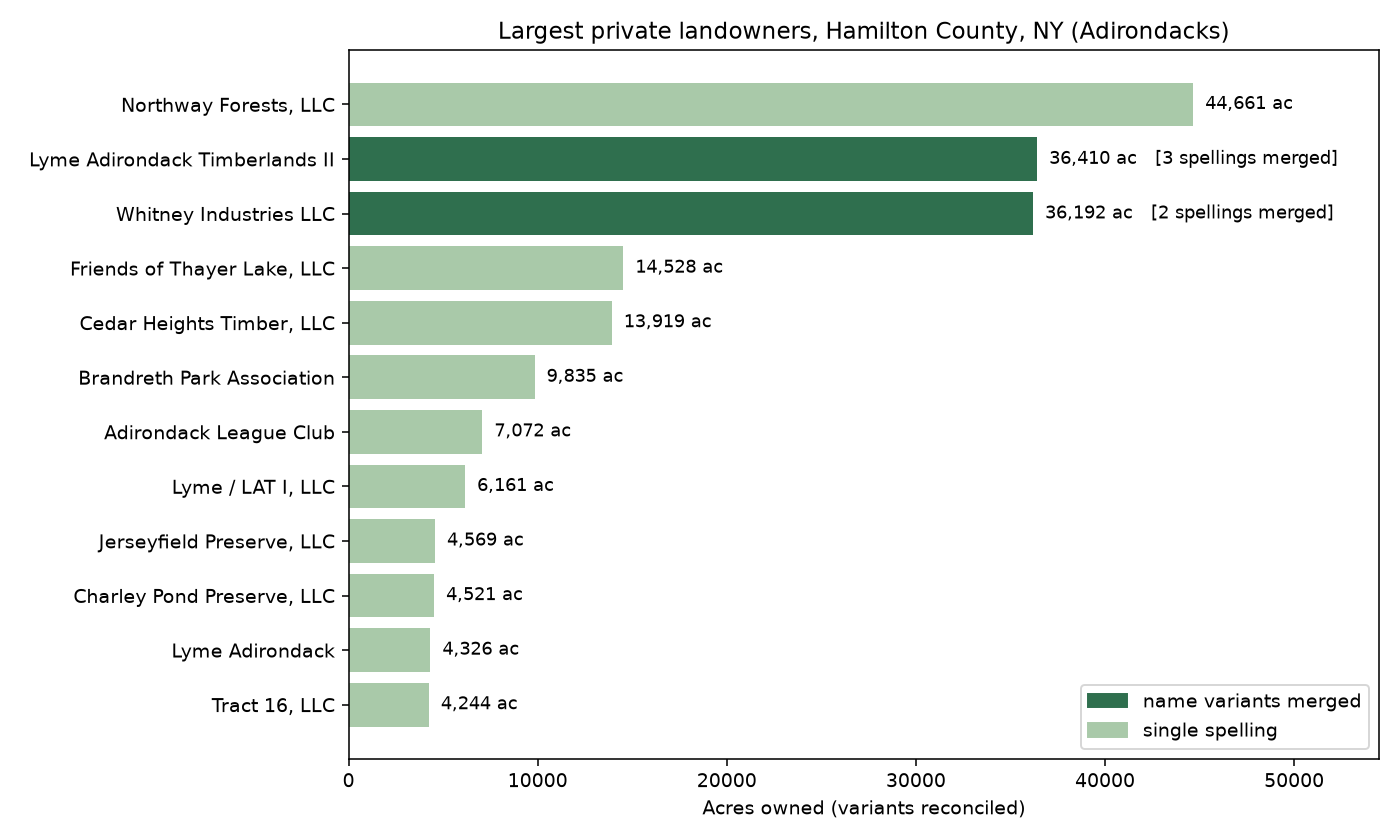
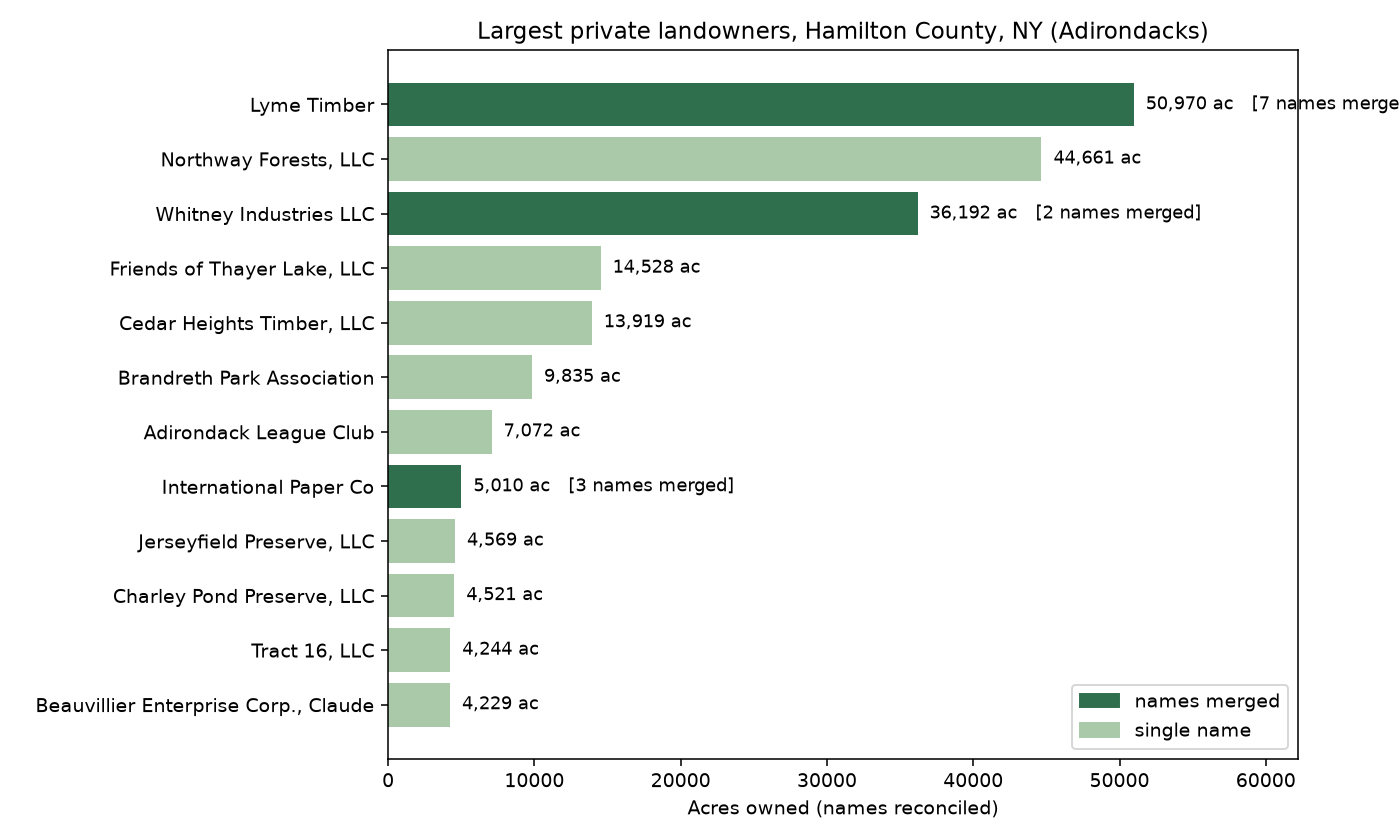
Add legal-suffix stripping and curated corporate-family aliases
- cluster_owners: drop legal tokens (LLC, CO, INC, ...) before matching so a
  missing suffix no longer splits an owner; optional keyword aliases roll a known
  corporate family's distinct names up to one parent (curated, not inferred)
- NY demo groups the 7 Lyme Timber names into the county's largest private holder
- tests for both; chart and README updated

diff --git a/src/parcel_lineage/entity_resolution.py b/src/parcel_lineage/entity_resolution.py
@@ -32,15 +32,26 @@ class ResolverConfig:
     scorer: Callable[[str, str], float] = fuzz.token_sort_ratio
 
 
-def _normalize(name: str) -> str:
-    """Cheap, deterministic cleanup applied before fuzzy scoring."""
+# Unambiguous legal-entity suffixes, dropped before matching so that
+# "Northway Forests" and "Northway Forests LLC" compare as the same core name.
+# Deliberately excludes meaningful words like TRUST, CLUB, or ASSOCIATION.
+LEGAL_TOKENS = frozenset(
+    {"LLC", "INC", "CO", "CORP", "CORPORATION", "LP", "LLP", "LTD", "COMPANY", "INCORPORATED"}
+)
+
+
+def _normalize(name: str, drop_tokens: frozenset[str] = frozenset()) -> str:
+    """Cheap, deterministic cleanup applied before fuzzy scoring.
+
+    ``drop_tokens`` removes whole tokens (typically legal suffixes like LLC or
+    INC) so the distinctive part of the name drives the match.
+    """
     text = name.upper().strip().replace(",", " ").replace(".", "")
-    # Collapse common legal-suffix spellings to one token. Dots are already
-    # stripped above, so "L.L.C." arrives here as "LLC".
+    # Collapse common legal-suffix spellings to one token before splitting.
     for variant in ("L L C", "LIMITED LIABILITY COMPANY"):
         text = text.replace(variant, "LLC")
-    # Final split/join collapses any repeated whitespace to single spaces.
-    return " ".join(text.split())
+    tokens = [t for t in text.split() if t not in drop_tokens]
+    return " ".join(tokens)
 
 
 def resolve_owners(
@@ -107,25 +118,45 @@ def cluster_owners(
     *,
     threshold: float = 92.0,
     scorer: object = fuzz.token_sort_ratio,
+    drop_tokens: frozenset[str] = LEGAL_TOKENS,
+    aliases: dict[str, str] | None = None,
 ) -> pd.Series:
     """Collapse messy owner strings into canonical groups without a lookup table.
 
-    Use this when there is no corporate-family table to match against (the common
-    case with a raw county roll): normalize each name, then greedily merge
-    near-duplicate normalized names (typos, punctuation, spacing) above
-    ``threshold`` into one cluster. Each cluster is labeled with its most common
-    original spelling.
+    Runs two passes and returns a Series aligned to ``owners`` giving the
+    canonical owner per row, so ``df.groupby(cluster_owners(df["owner"])).sum()``
+    reveals the true largest holders.
 
-    Returns a Series aligned to ``owners`` giving the canonical owner for each row,
-    so ``df.groupby(cluster_owners(df["owner"])).sum()`` reveals the true largest
-    holders once name variants are reconciled.
+    1. **Curated aliases** (optional): ``aliases`` maps a keyword to a parent
+       label, rolling up distinct names that share a corporate brand. For example
+       ``{"LYME": "Lyme Timber", "LAT": "Lyme Timber"}`` groups "Lyme Adirondack
+       Timberlands II" and "Lyme / LAT I, LLC" under one owner. Keywords are
+       matched as whole tokens. This is a human-curated input, not inferred, so it
+       does not fabricate corporate relationships.
+    2. **Fuzzy variant merging**: everything an alias did not claim is normalized
+       (dropping legal tokens like LLC via ``drop_tokens``), then near-duplicate
+       spellings are greedily merged above ``threshold`` and labeled with the most
+       common original spelling.
     """
     raw = owners.astype(str)
-    norm = raw.map(_normalize)
+    norm = raw.map(lambda s: _normalize(s, drop_tokens))
+    result: pd.Series = pd.Series(index=raw.index, dtype=object)
+
+    if aliases:
+        alias_map = {kw.upper(): parent for kw, parent in aliases.items()}
+        for idx, name in norm.items():
+            tokens = set(name.split())
+            for keyword, parent in alias_map.items():
+                if keyword in tokens:
+                    result.loc[idx] = parent
+                    break
+
+    remaining = result.isna()
+    rem_norm = norm[remaining]
 
     reps: list[str] = []  # one normalized representative per cluster
     rep_of: dict[str, int] = {}  # normalized string -> cluster index
-    for value in dict.fromkeys(norm):  # unique normalized names, first-seen order
+    for value in dict.fromkeys(rem_norm):  # unique normalized names, first-seen
         match = (
             process.extractOne(value, reps, scorer=scorer)  # type: ignore[arg-type]
             if reps
@@ -137,9 +168,11 @@ def cluster_owners(
             rep_of[value] = len(reps)
             reps.append(value)
 
-    cluster = norm.map(rep_of)
+    cluster = rem_norm.map(rep_of)
     # Canonical label per cluster: the most frequent raw spelling in it.
     canonical = {
-        idx: group.value_counts().index[0] for idx, group in raw.groupby(cluster)
+        idx: group.value_counts().index[0]
+        for idx, group in raw[remaining].groupby(cluster)
     }
-    return cluster.map(canonical)
+    result.loc[remaining] = cluster.map(canonical)
+    return result

diff --git a/tests/test_pipeline.py b/tests/test_pipeline.py
@@ -44,6 +44,24 @@ def test_cluster_owners_merges_spelling_variants() -> None:
     assert canon.nunique() == 3
 
 
+def test_cluster_owners_ignores_legal_suffix() -> None:
+    # A missing legal suffix should not split an owner.
+    canon = cluster_owners(pd.Series(["Northway Forests LLC", "Northway Forests"]))
+    assert canon.nunique() == 1
+
+
+def test_cluster_owners_aliases_group_a_family() -> None:
+    owners = pd.Series([
+        "Lyme Adirondack Timberlands II",
+        "Lyme / LAT I, LLC",
+        "Whitney Industries LLC",
+    ])
+    canon = cluster_owners(owners, aliases={"LYME": "Lyme Timber", "LAT": "Lyme Timber"})
+    # The two distinct Lyme names roll up to one parent; Whitney stays separate.
+    assert canon.iloc[0] == canon.iloc[1] == "Lyme Timber"
+    assert canon.iloc[2] != "Lyme Timber"
+
+
 def test_change_types_are_detected() -> None:
     changes = classify_changes(_resolved(2020), _resolved(2024))
     by_parcel = dict(zip(changes["parcel_id"], changes["change_type"]))

diff --git a/examples/ny_timberland.py b/examples/ny_timberland.py
@@ -14,6 +14,10 @@ from __future__ import annotations
 from parcel_lineage.entity_resolution import cluster_owners
 from parcel_lineage.loaders import NY_TAX_PARCELS, fetch_parcels
 
+# Curated corporate-family aliases for known Adirondack timberland owners whose
+# holdings are recorded under several distinct LLC names. Keyword -> parent.
+ADIRONDACK_ALIASES = {"LYME": "Lyme Timber", "LAT": "Lyme Timber"}
+
 
 def main() -> None:
     df = fetch_parcels(NY_TAX_PARCELS, where="COUNTY_NAME='Hamilton' AND ACRES>25")
@@ -21,17 +25,17 @@ def main() -> None:
     df = df[df["owner"].str.strip() != ""]
     print(f"Fetched {len(df)} parcels over 25 acres in Hamilton County, NY.")
 
-    df["canonical"] = cluster_owners(df["owner"]).to_numpy()
+    df["canonical"] = cluster_owners(df["owner"], aliases=ADIRONDACK_ALIASES).to_numpy()
     print(
         f"Distinct owners: {df['owner'].nunique()} raw -> "
         f"{df['canonical'].nunique()} after reconciliation."
     )
 
     totals = df.groupby("canonical")["acres"].sum().sort_values(ascending=False)
-    print("\nTop 12 landowners (acres, name variants merged):")
+    print("\nTop 12 landowners (acres, distinct names merged):")
     for name, acres in totals.head(12).items():
-        variants = df.loc[df["canonical"] == name, "owner"].nunique()
-        note = f"   [{variants} spellings merged]" if variants > 1 else ""
+        merged = df.loc[df["canonical"] == name, "owner"].nunique()
+        note = f"   [{merged} names merged]" if merged > 1 else ""
         print(f"  {acres:>10,.0f} ac  {name}{note}")
 
 

diff --git a/src/parcel_lineage/viz.py b/src/parcel_lineage/viz.py
@@ -44,16 +44,16 @@ def plot_top_owners(
     ax.set_yticks(range(len(names)), names)
     for i, name in enumerate(names):
         value = totals.iloc[i]
-        note = f"   [{variants[name]} spellings merged]" if variants[name] > 1 else ""
+        note = f"   [{variants[name]} names merged]" if variants[name] > 1 else ""
         ax.text(value, i, f"  {value:,.0f} ac{note}", va="center", fontsize=9)
 
-    ax.set_xlabel("Acres owned (variants reconciled)")
+    ax.set_xlabel("Acres owned (names reconciled)")
     ax.set_title(title)
     ax.margins(x=0.22)
     handles = [
         plt.Rectangle((0, 0), 1, 1, color=merged),
         plt.Rectangle((0, 0), 1, 1, color=single),
     ]
-    ax.legend(handles, ["name variants merged", "single spelling"], loc="lower right")
+    ax.legend(handles, ["names merged", "single name"], loc="lower right")
     fig.tight_layout()
     return fig

diff --git a/examples/ny_timberland_plot.py b/examples/ny_timberland_plot.py
@@ -12,12 +12,15 @@ from parcel_lineage.entity_resolution import cluster_owners
 from parcel_lineage.loaders import NY_TAX_PARCELS, fetch_parcels
 from parcel_lineage.viz import plot_top_owners
 
+# Curated corporate-family aliases for known Adirondack timberland owners.
+ADIRONDACK_ALIASES = {"LYME": "Lyme Timber", "LAT": "Lyme Timber"}
+
 
 def main() -> None:
     df = fetch_parcels(NY_TAX_PARCELS, where="COUNTY_NAME='Hamilton' AND ACRES>25")
     df = df.dropna(subset=["owner", "acres"])
     df = df[df["owner"].str.strip() != ""]
-    df["canonical"] = cluster_owners(df["owner"]).to_numpy()
+    df["canonical"] = cluster_owners(df["owner"], aliases=ADIRONDACK_ALIASES).to_numpy()
 
     fig = plot_top_owners(
         df,

diff --git a/src/parcel_lineage/__init__.py b/src/parcel_lineage/__init__.py
@@ -2,6 +2,7 @@
 
 from parcel_lineage.change_detection import ChangeType, classify_changes
 from parcel_lineage.entity_resolution import (
+    LEGAL_TOKENS,
     ResolverConfig,
     cluster_owners,
     resolve_owners,
@@ -9,6 +10,7 @@ from parcel_lineage.entity_resolution import (
 from parcel_lineage.loaders import NY_TAX_PARCELS, ParcelSource, fetch_parcels
 
 __all__ = [
+    "LEGAL_TOKENS",
     "NY_TAX_PARCELS",
     "ChangeType",
     "ParcelSource",

diff --git a/README.md b/README.md
@@ -17,8 +17,9 @@ downloads and no accounts.
 ## What it does
 
 1. **Owner-name reconciliation** (`cluster_owners`): with no lookup table, collapse
-   the spelling variants of a raw county roll ("Northway Forests, LLC" vs "NORTHWAY
-   FORESTS LLC") into one canonical owner, so the true largest holders surface.
+   spelling variants of a raw county roll into one canonical owner, ignoring legal
+   suffixes (LLC, CO, INC), and optionally roll the distinct names of a known
+   corporate family up under one parent via a curated keyword alias.
 2. **Entity resolution** (`resolve_owners`): when a corporate-family table is
    available, fuzzy-match raw owner strings to canonical child LLCs and roll up to
    the ultimate parent, flagging low-confidence matches for human review.
@@ -46,10 +47,11 @@ pytest
 
 `examples/ny_timberland.py` pulls the live New York statewide tax-parcel service
 (`parcel_lineage.loaders.NY_TAX_PARCELS`, no account needed) for Hamilton County,
-reconciles the owner-name variants, and re-ranks the largest landowners. Recent
-run: 3,512 parcels over 25 acres, 711 raw owner strings reconciled to 690, with
-the reconciliation merging spelling variants of the big timberland LLCs, for
-example Lyme Adirondack Timberlands II (3 spellings) and Whitney Industries LLC.
+reconciles the owner names, and re-ranks the largest landowners. Recent run: 3,512
+parcels over 25 acres, 711 raw owner strings reconciled to 684. A curated alias
+(`{"LYME": "Lyme Timber", "LAT": "Lyme Timber"}`) then rolls that timberland
+family up from 7 distinct LLC names into one owner, which turns out to be the
+largest private holder in the county at 50,970 acres.
 
 ![Largest private landowners in Hamilton County, NY, after owner-name reconciliation; bars whose owner had multiple spellings merged are highlighted](docs/hamilton_landowners.png)
 